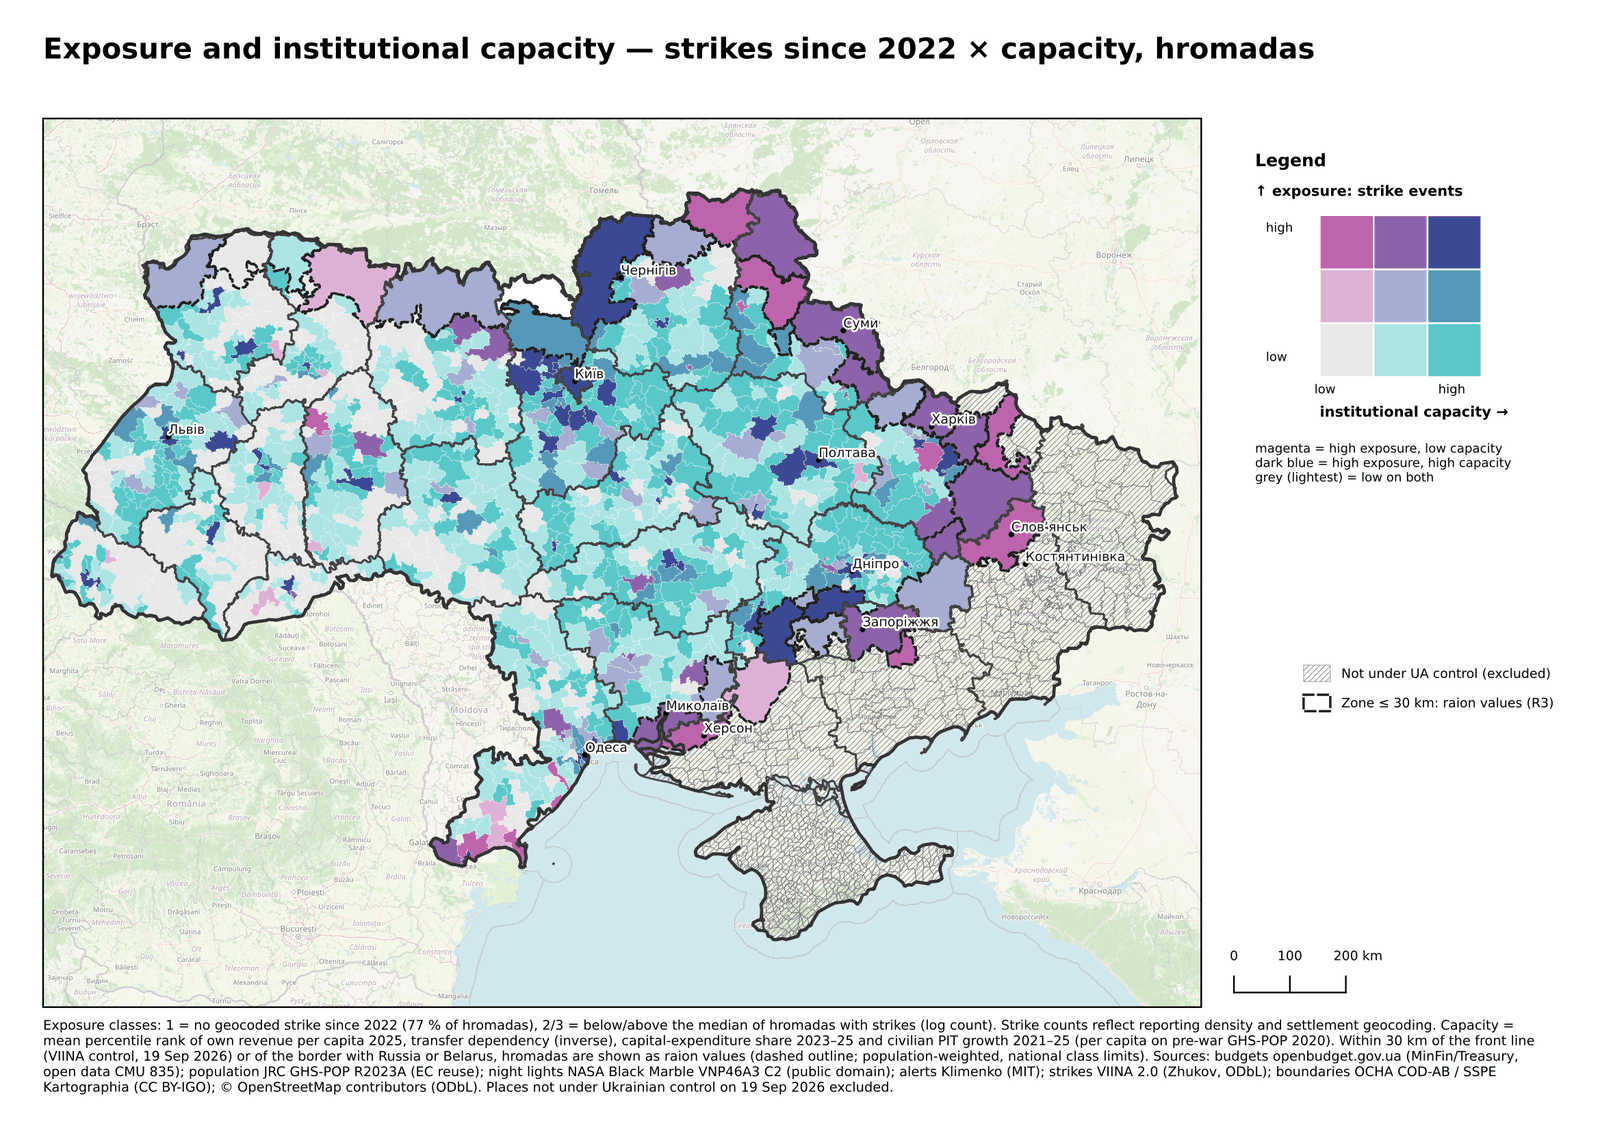
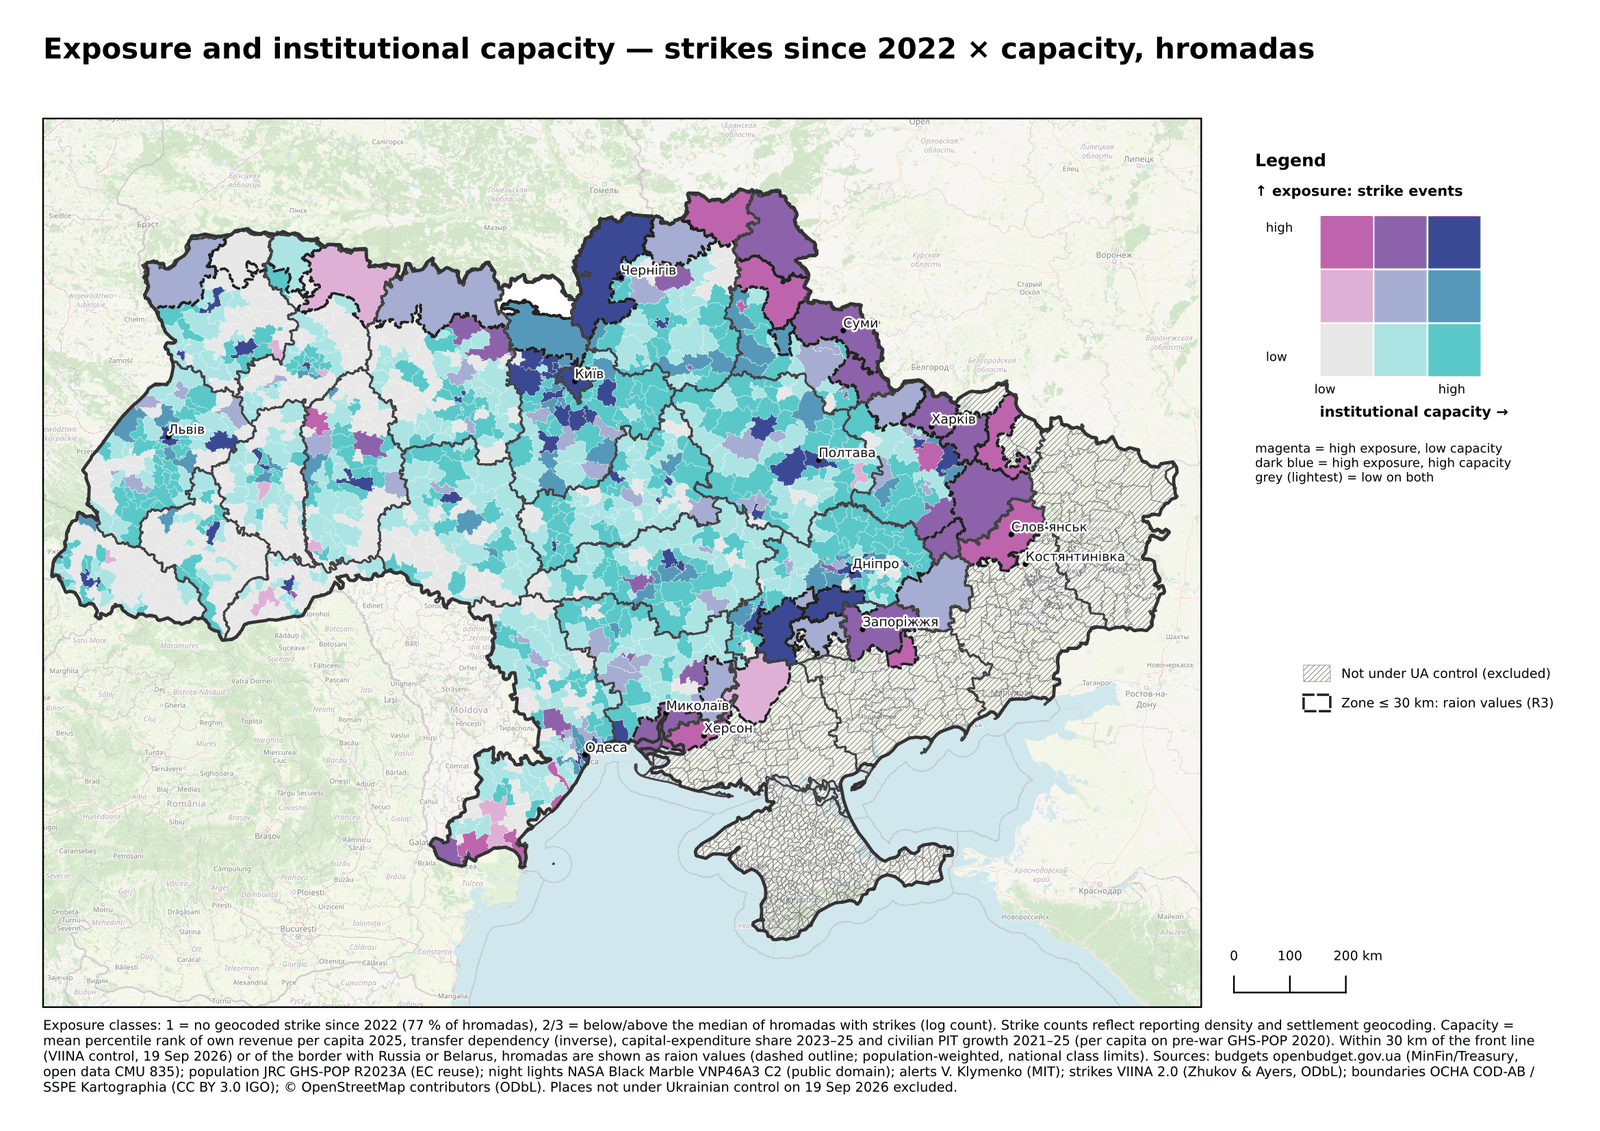
maps: page 18 published (reSCORE); caption attribution
Generated outputs, committed by tools/publish_outputs.sh:
  resilience/docs (2)
  viina/qgis/maps/preview (10)

Changed region(s): [[0.0312, 0.9593, 0.5938, 0.9903], [0.5938, 0.9284, 0.9375, 0.9593]]

diff --git a/viina/qgis/maps/preview/README.md b/viina/qgis/maps/preview/README.md
@@ -3,7 +3,7 @@
 Downscaled previews of the QGIS atlas pages, generated by `viina/make_map_previews.py`.
 Full-resolution PNG and PDF pages are published as release assets, not in git.
 
-> Data: VIINA 2.0 (ODbL); air-raid alert records, V. Klymenko (MIT); OCHA COD-AB / SSPE Kartographia (CC BY-IGO); openbudget.gov.ua; NASA Black Marble; JRC GHS-POP; DREAM. Analysis and maps: M. Garand, UBEC Platform, CC BY 4.0.
+> Data: VIINA 2.0, Zhukov & Ayers (ODbL); air-raid alert records, V. Klymenko (MIT); OCHA COD-AB / SSPE Kartographia (CC BY 3.0 IGO); openbudget.gov.ua; NASA Black Marble; JRC GHS-POP; DREAM. Analysis and maps: M. Garand, UBEC Platform, CC BY 4.0.
 
 Pages held back pending review:
 
@@ -18,7 +18,6 @@ Pages held back pending review:
 - 10: kernel density from event locations (R1/R5)
 - 11: Gi* hot spots at hromada level, incl. the front-line and border zone (R3)
 - 12: kernel density on 1 km grid with strike points (R1/R5)
-- 18: IOM DTM and reSCORE context (upstream terms)
 
 ## 04 · alert hours
 
@@ -43,6 +42,10 @@ Pages held back pending review:
 ## 17 · carpathian resilience
 
 ![carpathian resilience](17_carpathian_resilience.png)
+
+## 18 · oblast context
+
+![oblast context](18_oblast_context.png)
 
 ## 19 · trajectory level capacity
 
